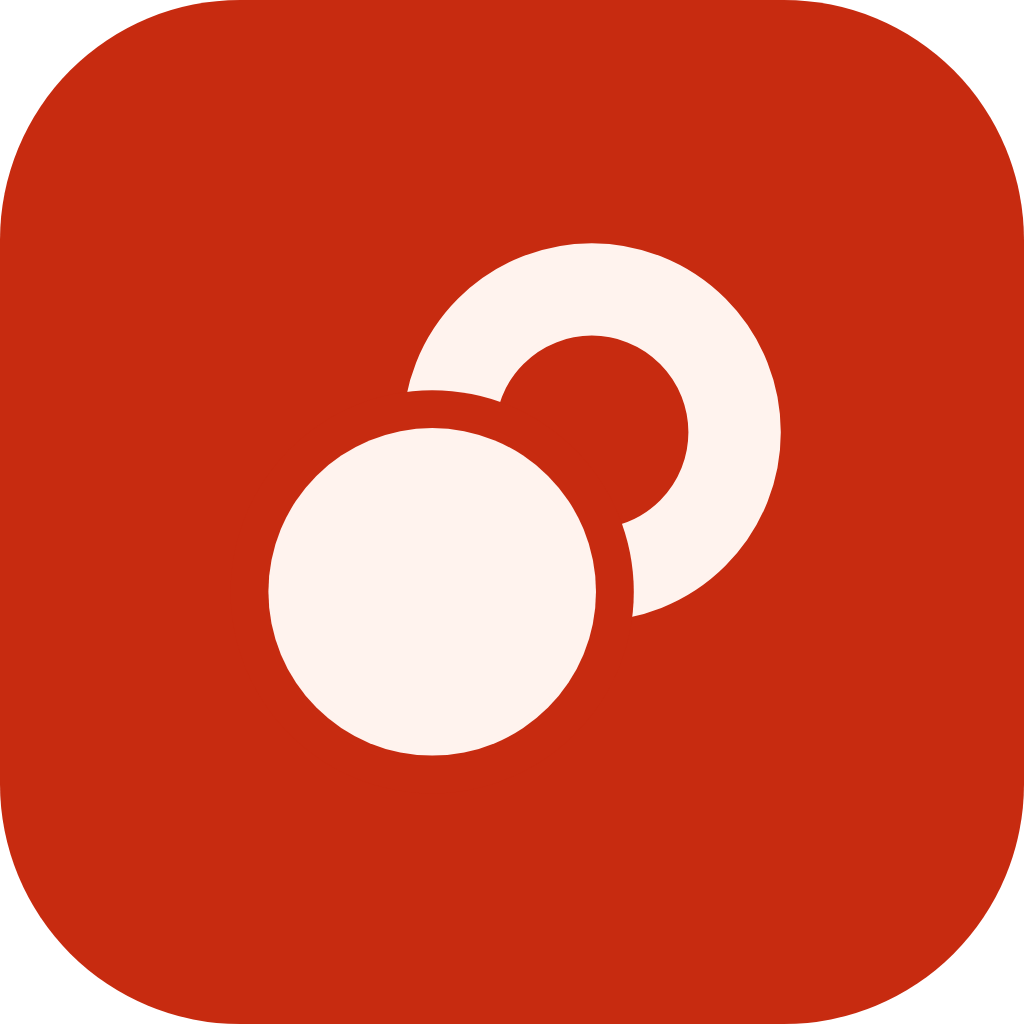
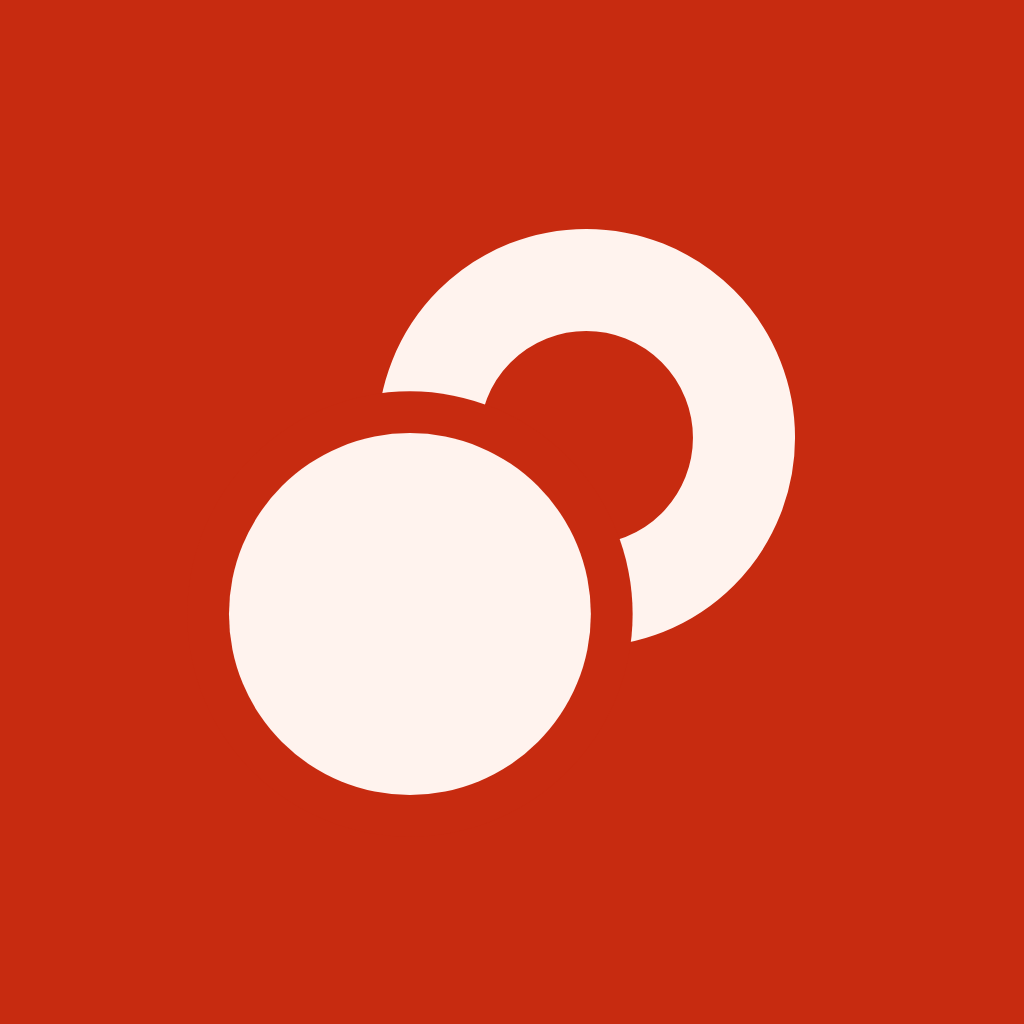
feat: iOS·앱스토어 아이콘을 사각 전면 원본으로 분리
파비콘 파일을 그대로 앱 아이콘에 쓰면 안 된다. 파비콘은 스스로 둥근 타일(rx=15)
이라 코너가 투명한데, iOS 는 투명을 검게 칠하고 그 위에 자기 스퀴클 마스크를
씌운다 — 둥근 모서리 바깥에 검은 삼각형 네 개가 남는다. 앱스토어 심사도 아이콘의
투명을 받지 않는다.

brand/app-icon-ios.svg 를 따로 둔다. 모서리를 깎지 않고 배경을 전면으로 채운다.

위치·크기도 다시 잡았다. 마크의 bounding box 중심은 (16.6, 15.4) 로 캔버스 중심과
어긋나 있어서 scale 만 주고 균등하게 translate 하면 한쪽으로 몰린다.
translate = 32 - scale × (16.6, 15.4) 로 계산한다. 처음 scale 1.18 로 뽑았더니
마크가 캔버스의 46% 로 작아 아이콘 안에서 겉돌아 1.45(약 55%)로 키웠다.

렌더 시 --default-background-color 를 흰색으로 준다. 00000000 을 쓰면 알파 채널이
생겨(color type 6) iOS 요구사항을 어긴다 — 지금은 color type 2 다.

검증: 시뮬레이터 홈 화면에서 실제 아이콘 확인(검은 모서리 없음), PNG color type
검사, docs/brand-assets.md 에 확인 절차 추가.

diff --git a/docs/brand-assets.md b/docs/brand-assets.md
@@ -27,12 +27,28 @@
 질량과 선을 대비시키는 것이 같은 것 둘을 나란히 두는 것보다 작은 크기에서 강하다.
 이 관찰이 형태를 결정했다.
 
-### 두 벌로 유지한다
+### 세 벌로 유지한다
 
-| | 파일 | 이음선 | 링 두께 |
-|---|---|---|---|
-| 화면 | `src/components/Logo.tsx` | `mask` | 3.2 |
-| 아이콘 | `public/favicon.svg` | 코럴 원 겹쳐 그리기 | 4.4 |
+| | 파일 | 배경 | 이음선 | 링 두께 |
+|---|---|---|---|---|
+| 화면 | `src/components/Logo.tsx` | 없음(`currentColor`) | `mask` | 3.2 |
+| 파비콘 | `public/favicon.svg` | 둥근 타일(`rx=15`) | 코럴 원 겹쳐 그리기 | 4.4 |
+| 앱 아이콘 | `brand/app-icon-ios.svg` | **사각 전면** | 코럴 원 겹쳐 그리기 | 4.4 |
+
+**앱 아이콘이 따로 있는 이유**: 파비콘은 스스로 둥근 타일이라 코너가 투명하다.
+iOS 는 투명을 검게 칠하고 그 위에 자기 스퀴클 마스크를 씌우므로, 같은 파일을 쓰면
+둥근 모서리 바깥에 **검은 삼각형 네 개**가 남는다. 앱스토어 심사도 아이콘의 투명을
+받지 않는다. 앱 아이콘은 모서리를 깎지 않고 배경을 전면으로 채운다 — 둥글리는 일은
+OS 가 한다.
+
+마크 위치도 다르다. bounding box 중심이 캔버스 중심과 어긋나 있어(아래 참고) scale
+만 주면 한쪽으로 몰린다.
+
+    마크 bbox(32 단위): x 4.4~28.8, y 3.2~27.6 → 중심 (16.6, 15.4)
+    translate = 32 - scale × (16.6, 15.4)
+
+앱 아이콘은 `scale 1.45` 로 마크가 캔버스의 **약 55%** 다. 처음 1.18 로 뽑았더니
+46% 로 작아 아이콘 안에서 겉돌았다(관례는 55~60%).
 
 - **치수가 다른 이유**: 파비콘이 실제로 그려지는 크기는 16px 이고, 타일 안쪽 여백을
   빼면 마크에 10px 남짓만 남는다. 그 크기에서 3.2 두께 링은 사라진다.
@@ -70,7 +86,20 @@ done
 
 cp "$TMP/r-180.png"    public/apple-touch-icon.png
 cp "$TMP/icon-512.png" public/icon-512.png
-cp "$TMP/icon-1024.png" brand/app-store-1024.png
+```
+
+앱 아이콘은 **원본이 다르다**(`brand/app-icon-ios.svg`). 투명이 없어야 하므로
+배경을 흰색으로 지정해 렌더한다 — `--default-background-color=00000000` 을 쓰면
+알파 채널이 생긴다.
+
+```bash
+"$CHROME" --headless --disable-gpu --force-device-scale-factor=1 \
+  --screenshot="$TMP/ios-1024.png" --window-size=1024,1024 \
+  --default-background-color=ffffffff "file://$PWD/brand/app-icon-ios.svg"
+
+cp "$TMP/ios-1024.png" brand/app-store-1024.png
+cp "$TMP/ios-1024.png" \
+   'ios/App/App/Assets.xcassets/AppIcon.appiconset/AppIcon-512@2x.png'
 ```
 
 `favicon.ico` 는 16·32·48 을 한 파일에 담아야 한다(윈도우·구형 브라우저가
@@ -96,8 +125,16 @@ PY
 - `favicon.ico` 안의 PNG 가 실제로 그려졌는지 본다 — 빈 이미지도 구조는 유효하다.
   16x16 이 700바이트 아래면 의심한다(코럴 타일이 있으므로 그보다 작아질 수 없다).
 - 밝은 탭바·어두운 탭바 양쪽에서 실루엣이 남는지 본다.
-- iOS 홈 화면 아이콘은 **투명을 검게 칠한다.** `apple-touch-icon.png` 에 투명
-  영역이 없어야 한다 — 타일이 불투명하므로 지금은 충족한다.
+- iOS·앱스토어 아이콘에 **알파 채널이 없어야 한다.** PNG color type 이 2(RGB)여야
+  하고 6(RGBA)이면 안 된다.
+
+  ```bash
+  python3 -c "
+  import struct; d=open('brand/app-store-1024.png','rb').read()
+  print('color type', struct.unpack('>IIBB', d[16:26])[3], '(2=RGB 정상, 6=RGBA 문제)')"
+  ```
+
+- 시뮬레이터 홈 화면에서 실제로 본다 — 코너에 검은 삼각형이 없어야 한다.
 
 ---
 
